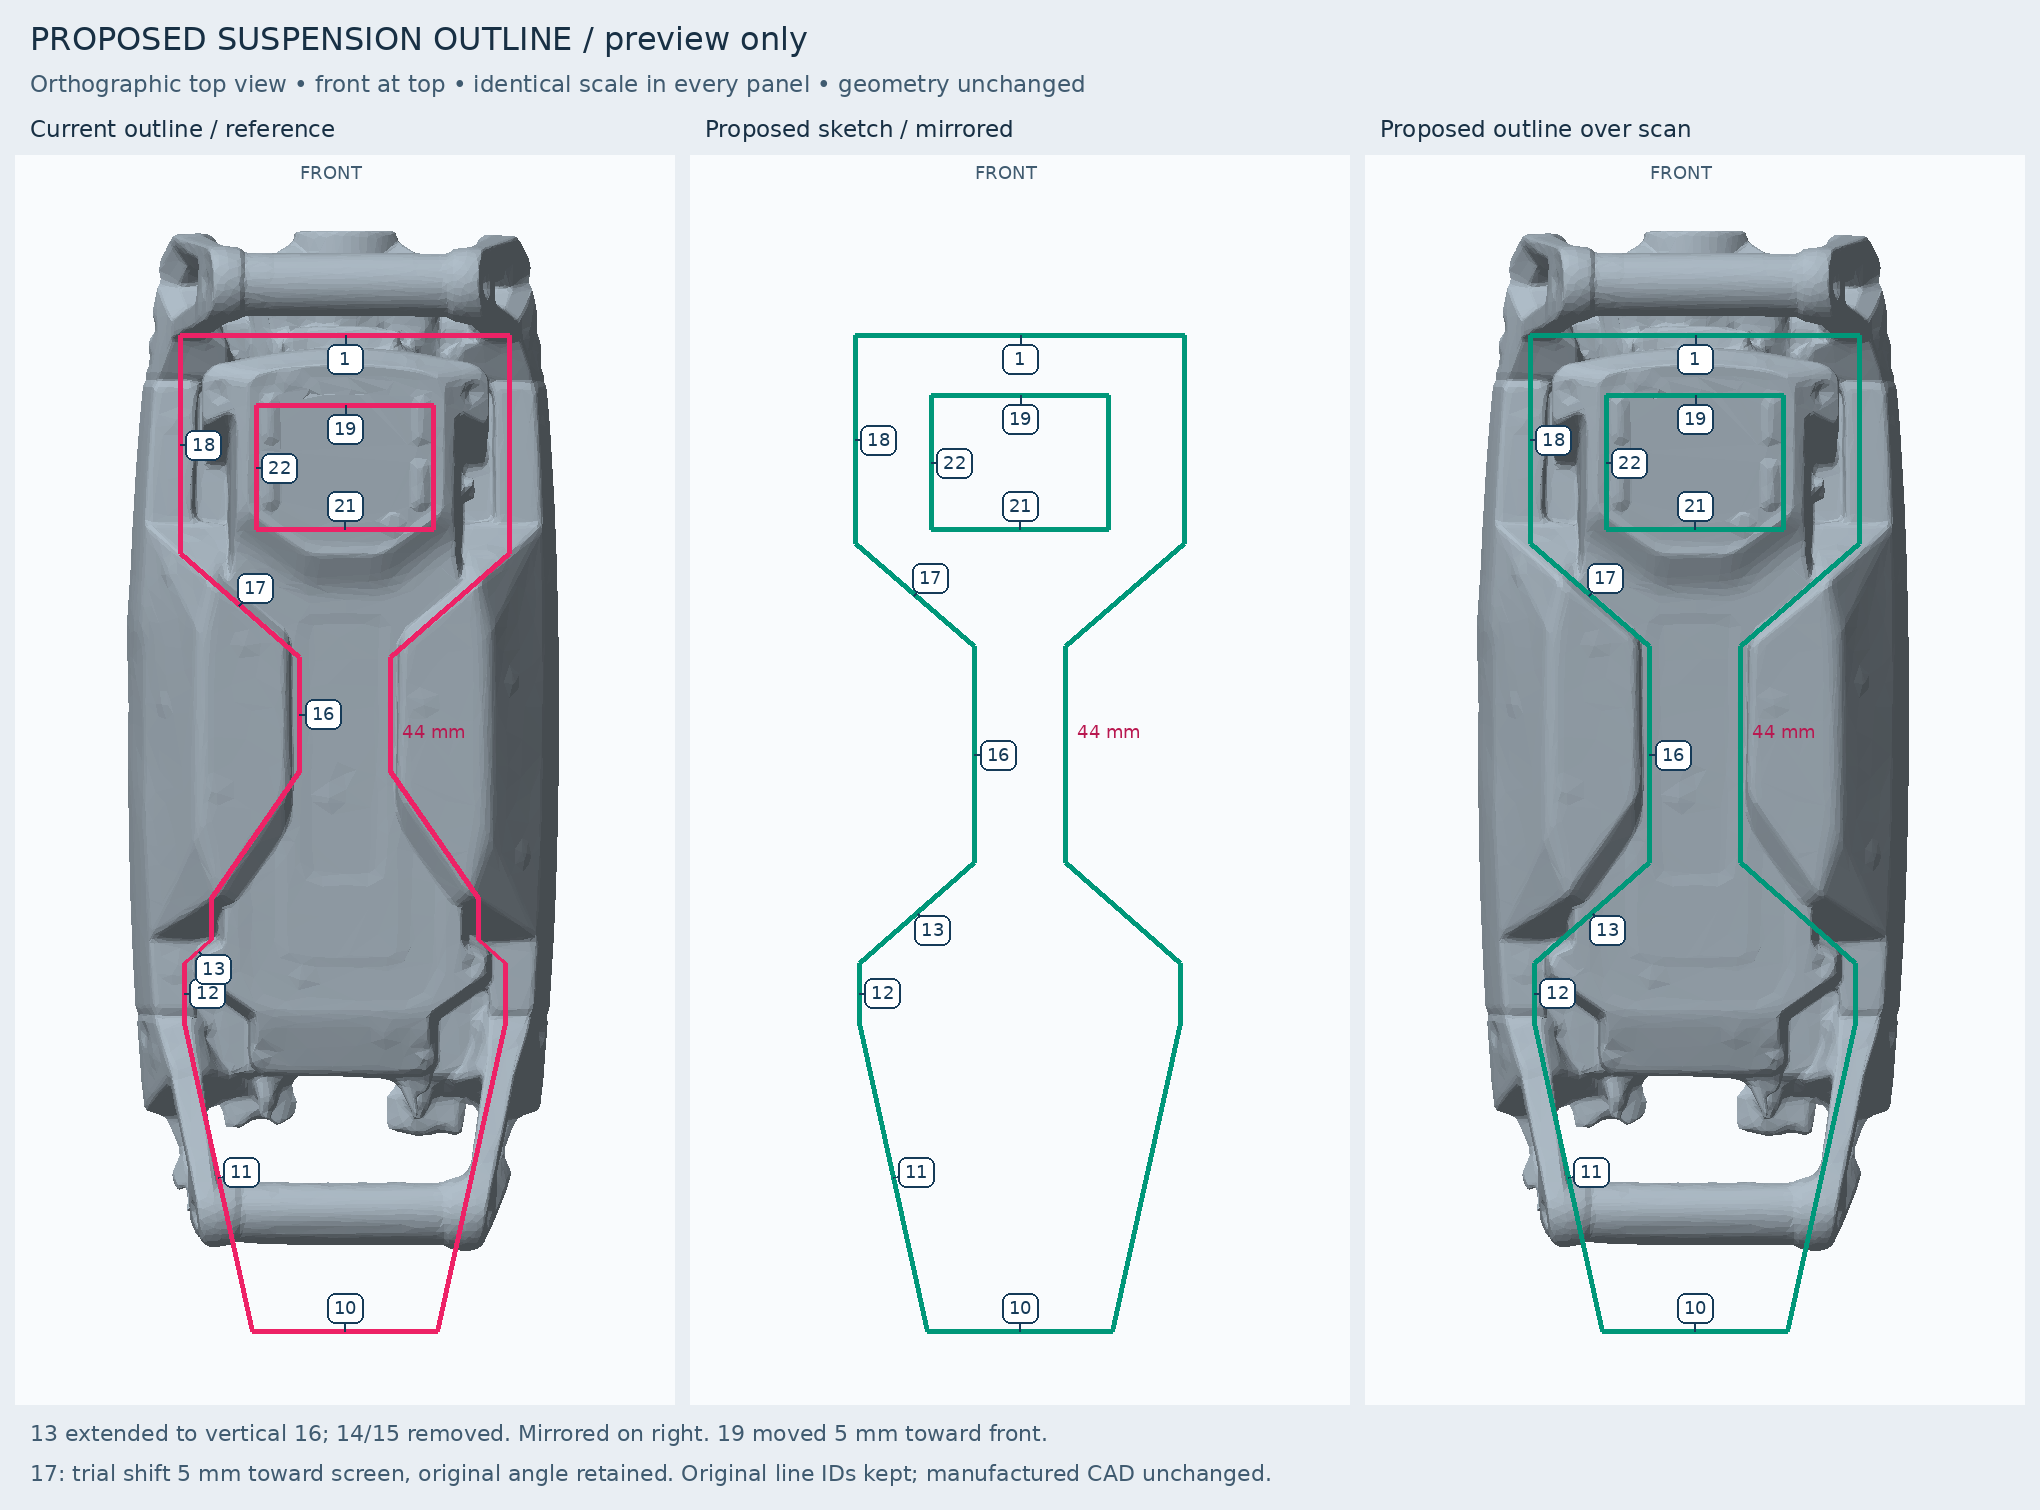
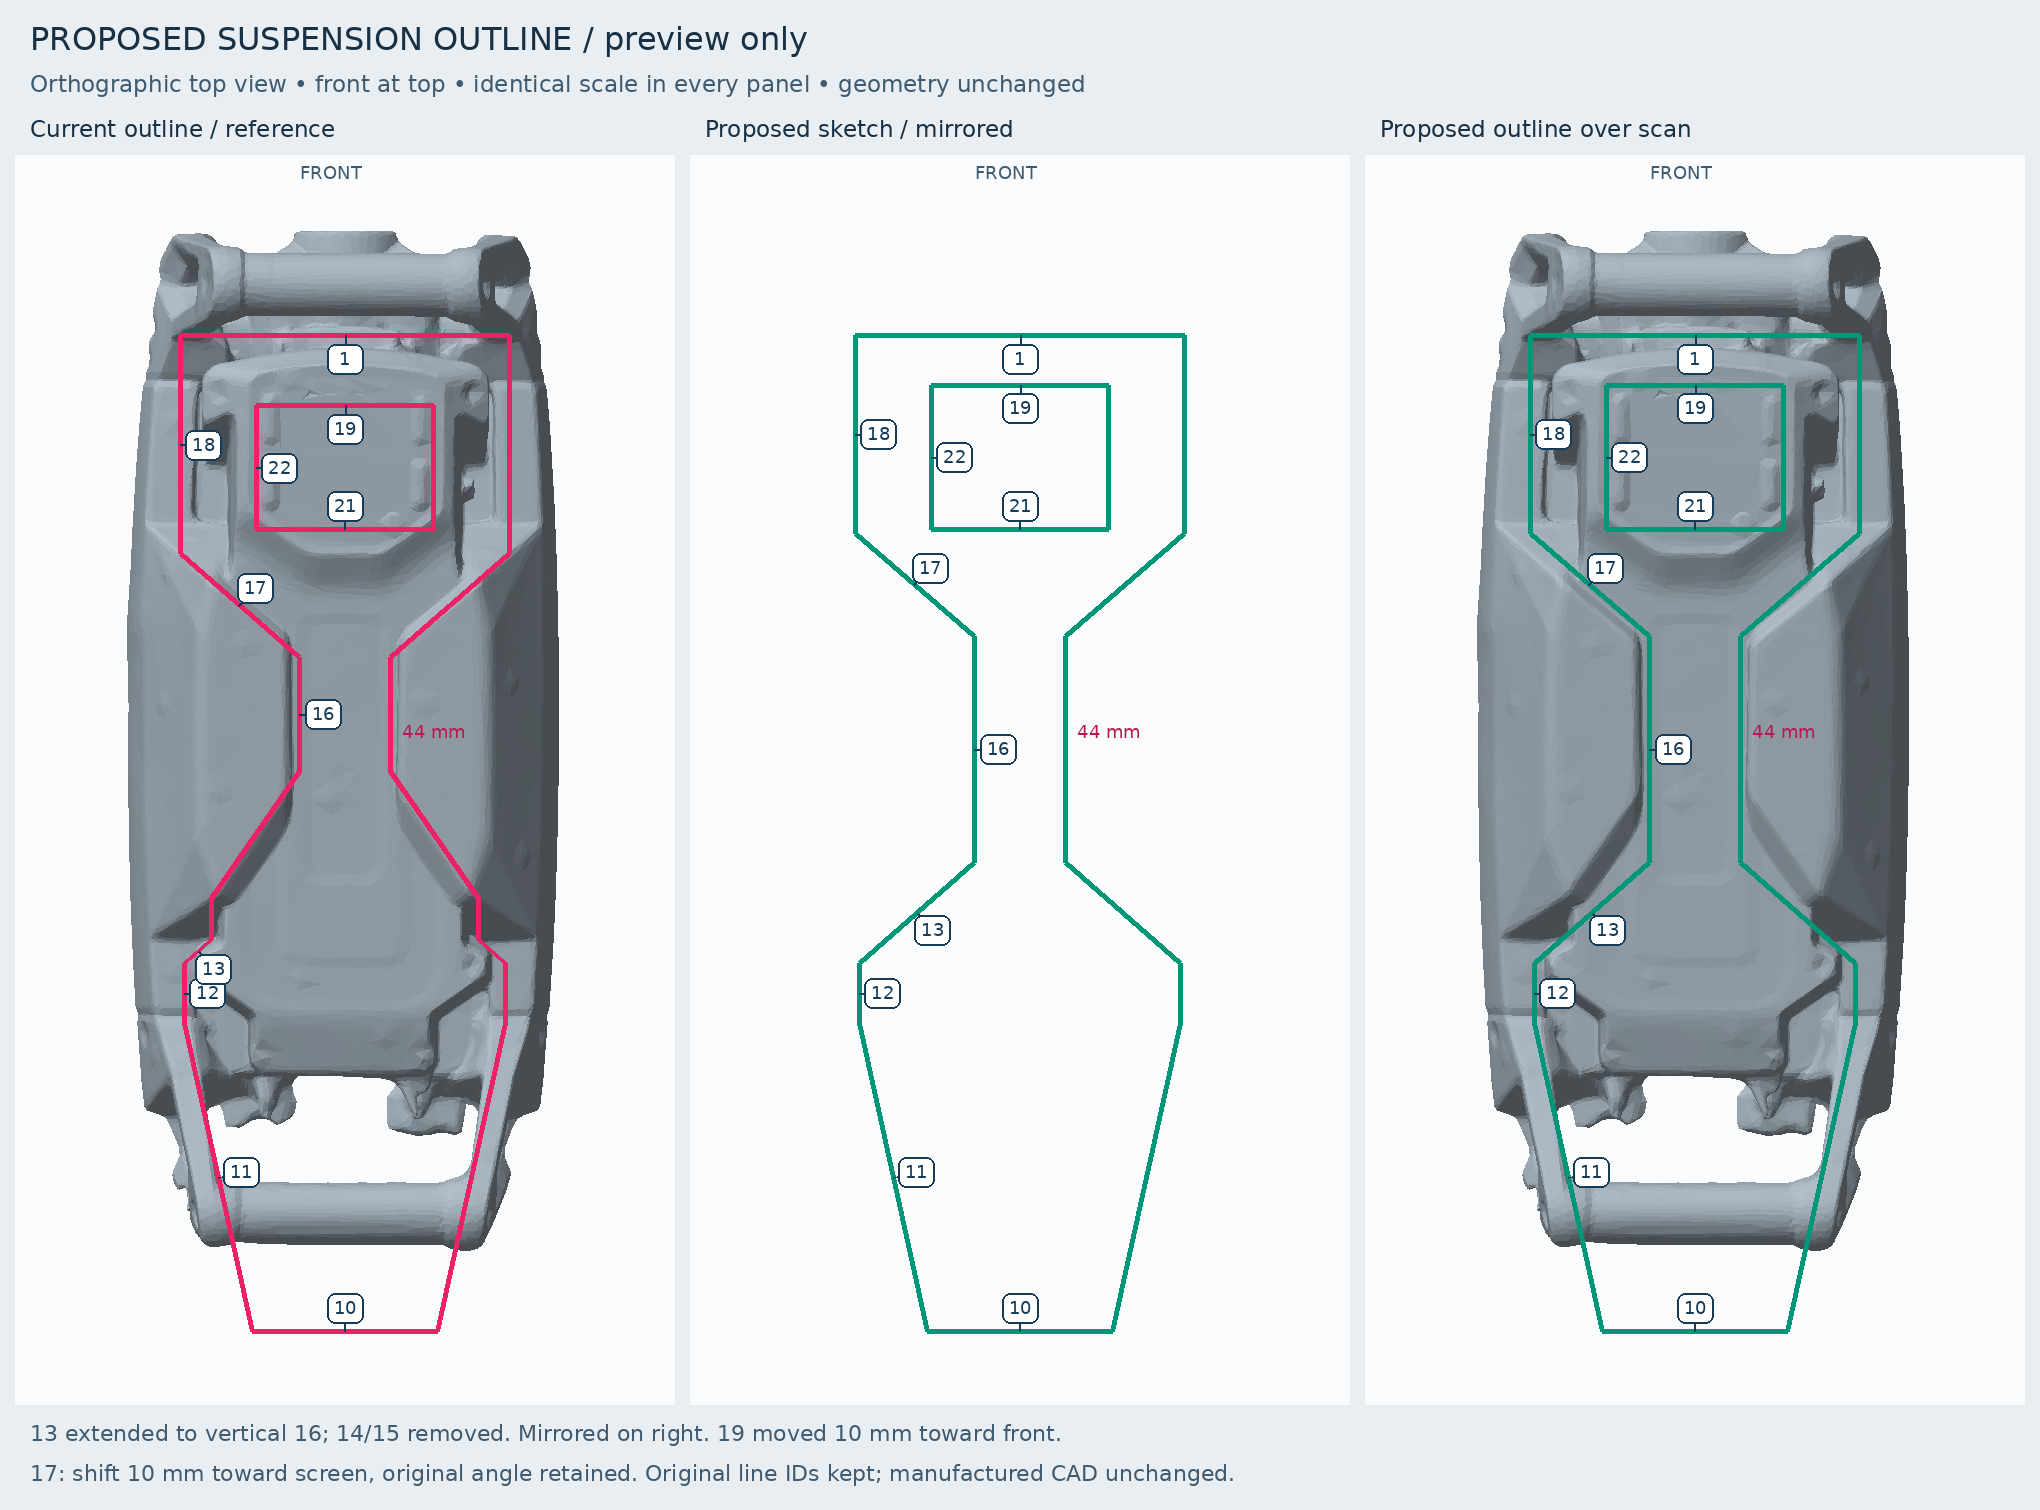
Double preview shifts of lines 17 and 19 to ten millimeters

diff --git a/Build123d/preview_bottom_outline.py b/Build123d/preview_bottom_outline.py
@@ -78,19 +78,19 @@ def main():
         for i in (14, 15, 5, 6):
             del proposed[i]
         # Preview assumption: parallel frontward translation, not a new angle.
-        proposed[17][:, 1] -= 5
+        proposed[17][:, 1] -= 10
         proposed[16][1] = proposed[17][0]
         proposed[18][0] = proposed[17][1]
         for left, right in ((13, 7), (16, 4), (17, 3), (18, 2)):
             proposed[right] = proposed[left][::-1]*[-1, 1]
-        proposed[19][:, 1] -= 5
+        proposed[19][:, 1] -= 10
         proposed[20][0] = proposed[19][1]
         proposed[22][1] = proposed[19][0]
         outer = [proposed[i] for i in range(1, 19) if i in proposed]
         assert all(np.allclose(a[1], b[0]) for a, b in zip(outer, outer[1:]+outer[:1]))
         assert np.allclose(proposed[13][1], proposed[16][0])
         assert np.allclose(np.diff(proposed[17], axis=0), np.diff(original[17], axis=0))
-        assert np.allclose(proposed[19][:, 1], original[19][:, 1]-5)
+        assert np.allclose(proposed[19][:, 1], original[19][:, 1]-10)
     scan = np.concatenate([load(ROOT/'exports/sherman-p-prepared'/f'{part}.stl')
                            for part in ('body-original', 'front-handle', 'rear-handle')])
     # Degenerate triangles set identical framing; the renderer skips their pixels.
@@ -148,8 +148,8 @@ def main():
         result.paste(panel, (x, 155))
         d.text((x+15, 115), title, font=font(23), fill='#183044')
         d.text((x+285, 162), 'FRONT', font=font(18), fill='#405b70')
-    d.text((30, 1420), '13 extended to vertical 16; 14/15 removed. Mirrored on right. 19 moved 5 mm toward front.' if proposal else 'Pink: exact selected base profile, mirrored and placed. Later cuts, clip changes and imprint are not this sketch.', font=font(22), fill='#405b70')
-    d.text((30, 1460), '17: trial shift 5 mm toward screen, original angle retained. Original line IDs kept; manufactured CAD unchanged.' if proposal else 'Scan: aligned, unscaled body + handles. Suspension-cover boundaries have not been inferred or marked.', font=font(22), fill='#405b70')
+    d.text((30, 1420), '13 extended to vertical 16; 14/15 removed. Mirrored on right. 19 moved 10 mm toward front.' if proposal else 'Pink: exact selected base profile, mirrored and placed. Later cuts, clip changes and imprint are not this sketch.', font=font(22), fill='#405b70')
+    d.text((30, 1460), '17: shift 10 mm toward screen, original angle retained. Original line IDs kept; manufactured CAD unchanged.' if proposal else 'Scan: aligned, unscaled body + handles. Suspension-cover boundaries have not been inferred or marked.', font=font(22), fill='#405b70')
     path = ROOT/('exports/bottom-outline-sherman-p-proposed.png' if proposal else 'exports/bottom-outline-sherman-p-numbered.png')
     result.save(path)
     print(path)
